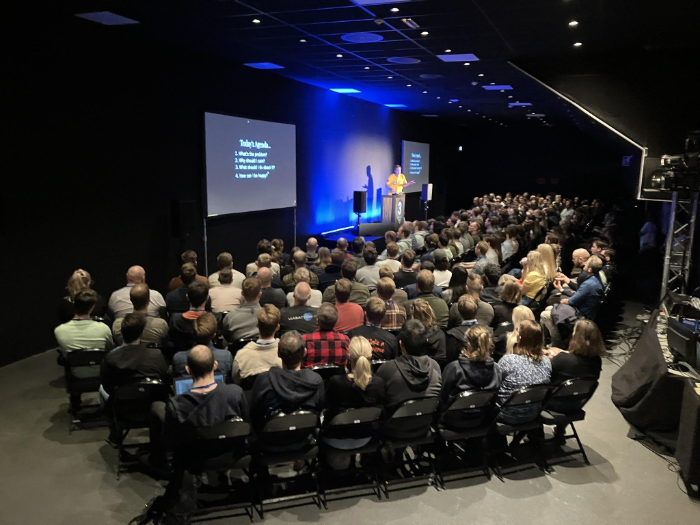
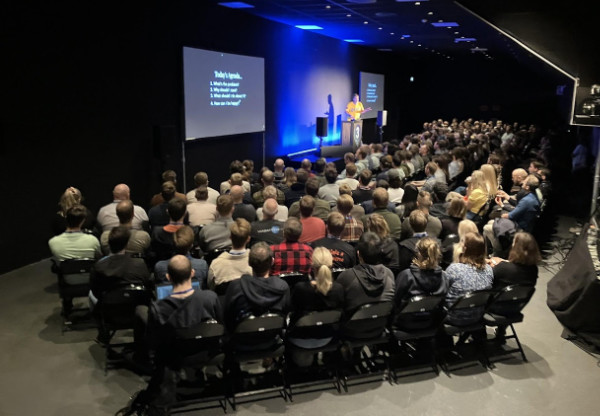
Some image optimization into #25
But more would be necessary.

diff --git a/talks.html b/talks.html
@@ -5,7 +5,7 @@
     <title>Lemon speaks at conferences.</title>
     <meta http-equiv="X-UA-Compatible" content="IE=edge,chrome=1">
     <link href="https://fonts.googleapis.com/css?family=Yrsa:300,400,600" rel="stylesheet" type="text/css">
-    <link rel="stylesheet" href="/css/ahoylemon.css?v=2023-01-12T03:36:27.641Z">
+    <link rel="stylesheet" href="/css/ahoylemon.css?v=2023-01-12T03:56:21.139Z">
     <meta name="viewport" content="width=device-width, initial-scale=1">
     <meta name="description" content="I make a lot of stuff, including this website to show the stuff I make.">
     <!-- RSS Feed-->
@@ -153,11 +153,11 @@
               </ul>
             </div>
           </div>
-          <div class="pics"><a class="close-cardpic"> <span>X</span></a><a class="pic" data-pic="prdc/2022-calgary-whiskeysour.jpg" style="background-image:url(img/talks/prdc/2022-calgary-whiskeysour.jpg)"></a>
-            <meta itemprop="image" content="https://ahoylemon.xyz/img/talks/prdc/2022-calgary-whiskeysour.jpg"><a class="pic" data-pic="prdc/2022-calgary-screen.jpg" style="background-image:url(img/talks/prdc/2022-calgary-screen.jpg)"></a>
-            <meta itemprop="image" content="https://ahoylemon.xyz/img/talks/prdc/2022-calgary-screen.jpg"><a class="pic" data-pic="prdc/2022-calgary-notpoutine.jpg" style="background-image:url(img/talks/prdc/2022-calgary-notpoutine.jpg)"></a>
-            <meta itemprop="image" content="https://ahoylemon.xyz/img/talks/prdc/2022-calgary-notpoutine.jpg"><a class="pic" data-pic="prdc/2022-calgary-group.jpg" style="background-image:url(img/talks/prdc/2022-calgary-group.jpg)"></a>
-            <meta itemprop="image" content="https://ahoylemon.xyz/img/talks/prdc/2022-calgary-group.jpg">
+          <div class="pics"><a class="close-cardpic"> <span>X</span></a><a class="pic" data-pic="prdc/2022-calgary-whiskeysour.webp" style="background-image:url(img/talks/prdc/2022-calgary-whiskeysour.webp)"></a>
+            <meta itemprop="image" content="https://ahoylemon.xyz/img/talks/prdc/2022-calgary-whiskeysour.webp"><a class="pic" data-pic="prdc/2022-calgary-notpoutine.webp" style="background-image:url(img/talks/prdc/2022-calgary-notpoutine.webp)"></a>
+            <meta itemprop="image" content="https://ahoylemon.xyz/img/talks/prdc/2022-calgary-notpoutine.webp"><a class="pic" data-pic="prdc/2022-calgary-group.webp" style="background-image:url(img/talks/prdc/2022-calgary-group.webp)"></a>
+            <meta itemprop="image" content="https://ahoylemon.xyz/img/talks/prdc/2022-calgary-group.webp"><a class="pic" data-pic="prdc/2022-calgary-funzone.webp" style="background-image:url(img/talks/prdc/2022-calgary-funzone.webp)"></a>
+            <meta itemprop="image" content="https://ahoylemon.xyz/img/talks/prdc/2022-calgary-funzone.webp">
           </div>
           <figure class="cardpic"></figure>
         </div>
@@ -184,8 +184,8 @@
               </ul>
             </div>
           </div>
-          <div class="pics"><a class="close-cardpic"> <span>X</span></a><a class="pic" data-pic="pubconf/mn-2022-1.jpg" style="background-image:url(img/talks/pubconf/mn-2022-1.jpg)"></a>
-            <meta itemprop="image" content="https://ahoylemon.xyz/img/talks/pubconf/mn-2022-1.jpg"><a class="pic" data-pic="pubconf/mn-2022-2.jpg" style="background-image:url(img/talks/pubconf/mn-2022-2.jpg)"></a>
+          <div class="pics"><a class="close-cardpic"> <span>X</span></a><a class="pic" data-pic="pubconf/mn-2022-1.webp" style="background-image:url(img/talks/pubconf/mn-2022-1.webp)"></a>
+            <meta itemprop="image" content="https://ahoylemon.xyz/img/talks/pubconf/mn-2022-1.webp"><a class="pic" data-pic="pubconf/mn-2022-2.jpg" style="background-image:url(img/talks/pubconf/mn-2022-2.jpg)"></a>
             <meta itemprop="image" content="https://ahoylemon.xyz/img/talks/pubconf/mn-2022-2.jpg"><a class="pic" data-pic="pubconf/mn-2022-3.jpg" style="background-image:url(img/talks/pubconf/mn-2022-3.jpg)"></a>
             <meta itemprop="image" content="https://ahoylemon.xyz/img/talks/pubconf/mn-2022-3.jpg"><a class="pic" data-pic="pubconf/mn-2022-4.jpg" style="background-image:url(img/talks/pubconf/mn-2022-4.jpg)"></a>
             <meta itemprop="image" content="https://ahoylemon.xyz/img/talks/pubconf/mn-2022-4.jpg">
@@ -215,8 +215,8 @@
               </ul>
             </div>
           </div>
-          <div class="pics"><a class="close-cardpic"> <span>X</span></a><a class="pic" data-pic="ndc/oslo-2022-packedroom.jpg" style="background-image:url(img/talks/ndc/oslo-2022-packedroom.jpg)"></a>
-            <meta itemprop="image" content="https://ahoylemon.xyz/img/talks/ndc/oslo-2022-packedroom.jpg"><a class="pic" data-pic="ndc/oslo-2022-mainroom.jpg" style="background-image:url(img/talks/ndc/oslo-2022-mainroom.jpg)"></a>
+          <div class="pics"><a class="close-cardpic"> <span>X</span></a><a class="pic" data-pic="ndc/oslo-2022-packedroom.webp" style="background-image:url(img/talks/ndc/oslo-2022-packedroom.webp)"></a>
+            <meta itemprop="image" content="https://ahoylemon.xyz/img/talks/ndc/oslo-2022-packedroom.webp"><a class="pic" data-pic="ndc/oslo-2022-mainroom.jpg" style="background-image:url(img/talks/ndc/oslo-2022-mainroom.jpg)"></a>
             <meta itemprop="image" content="https://ahoylemon.xyz/img/talks/ndc/oslo-2022-mainroom.jpg"><a class="pic" data-pic="ndc/oslo-2022-street.jpg" style="background-image:url(img/talks/ndc/oslo-2022-street.jpg)"></a>
             <meta itemprop="image" content="https://ahoylemon.xyz/img/talks/ndc/oslo-2022-street.jpg"><a class="pic" data-pic="ndc/oslo-2022-party.jpg" style="background-image:url(img/talks/ndc/oslo-2022-party.jpg)"></a>
             <meta itemprop="image" content="https://ahoylemon.xyz/img/talks/ndc/oslo-2022-party.jpg">
@@ -246,8 +246,8 @@
               </ul>
             </div>
           </div>
-          <div class="pics"><a class="close-cardpic"> <span>X</span></a><a class="pic" data-pic="pubconf/kc-2022-pointing.jpg" style="background-image:url(img/talks/pubconf/kc-2022-pointing.jpg)"></a>
-            <meta itemprop="image" content="https://ahoylemon.xyz/img/talks/pubconf/kc-2022-pointing.jpg"><a class="pic" data-pic="pubconf/kc-2022-intro.jpg" style="background-image:url(img/talks/pubconf/kc-2022-intro.jpg)"></a>
+          <div class="pics"><a class="close-cardpic"> <span>X</span></a><a class="pic" data-pic="pubconf/kc-2022-pointing.webp" style="background-image:url(img/talks/pubconf/kc-2022-pointing.webp)"></a>
+            <meta itemprop="image" content="https://ahoylemon.xyz/img/talks/pubconf/kc-2022-pointing.webp"><a class="pic" data-pic="pubconf/kc-2022-intro.jpg" style="background-image:url(img/talks/pubconf/kc-2022-intro.jpg)"></a>
             <meta itemprop="image" content="https://ahoylemon.xyz/img/talks/pubconf/kc-2022-intro.jpg"><a class="pic" data-pic="pubconf/kc-2022-figure.jpg" style="background-image:url(img/talks/pubconf/kc-2022-figure.jpg)"></a>
             <meta itemprop="image" content="https://ahoylemon.xyz/img/talks/pubconf/kc-2022-figure.jpg">
           </div>

diff --git a/clients/index.html b/clients/index.html
@@ -1,4 +1,4 @@
-<!doctype html><html lang="en"><head><meta charset="utf-8"><title>Some websites I made for clients</title><meta http-equiv="X-UA-Compatible" content="IE=edge,chrome=1"><link href="https://fonts.googleapis.com/css?family=Yrsa:300,400,600" rel="stylesheet" type="text/css"><link rel="stylesheet" href="/css/ahoylemon.css?v=2023-01-12T03:36:27.217Z"><meta name="viewport" content="width=device-width,initial-scale=1"><meta name="description" content="I make a lot of stuff, including this website to show the stuff I make."><link rel="alternate" type="application/rss+xml" href="https://ahoylemon.xyz/feed.xml" title="Ahoy! Lemon's RSS Feed"><link rel="apple-touch-icon" sizes="57x57" href="/apple-touch-icon-57x57.png"><link rel="apple-touch-icon" sizes="60x60" href="/apple-touch-icon-60x60.png"><link rel="apple-touch-icon" sizes="72x72" href="/apple-touch-icon-72x72.png"><link rel="apple-touch-icon" sizes="76x76" href="/apple-touch-icon-76x76.png"><link rel="apple-touch-icon" sizes="114x114" href="/apple-touch-icon-114x114.png"><link rel="apple-touch-icon" sizes="120x120" href="/apple-touch-icon-120x120.png"><link rel="apple-touch-icon" sizes="144x144" href="/apple-touch-icon-144x144.png"><link rel="apple-touch-icon" sizes="152x152" href="/apple-touch-icon-152x152.png"><link rel="apple-touch-icon" sizes="180x180" href="/apple-touch-icon-180x180.png"><link rel="icon" type="image/png" href="/favicon-32x32.png" sizes="32x32"><link rel="icon" type="image/png" href="/favicon-194x194.png" sizes="194x194"><link rel="icon" type="image/png" href="/favicon-96x96.png" sizes="96x96"><link rel="icon" type="image/png" href="/android-chrome-192x192.png" sizes="192x192"><link rel="icon" type="image/png" href="/favicon-16x16.png" sizes="16x16"><link rel="manifest" href="/manifest.json"><link rel="mask-icon" href="/safari-pinned-tab.svg" color="#5bbad5"><meta name="msapplication-TileColor" content="#e4e72c"><meta name="msapplication-TileImage" content="/mstile-144x144.png"><meta name="theme-color" content="#e4e72c"><meta name="twitter:card" content="summary"><meta name="twitter:site" content="@AhoyLemon"><meta name="twitter:creator" content="@AhoyLemon"><meta name="twitter:title" content="Some websites I made for clients"><meta name="twitter:description" content="I make a lot of stuff, including this website to show the stuff I make."><meta name="twitter:image" content="https://ahoylemon.xyz/og-image.png"><meta name="twitter:url" content="https://ahoylemon.xyz"><meta property="og:title" content="Some websites I made for clients"><meta property="og:type" content="website"><meta property="og:url" content="https://ahoylemon.xyz"><meta property="og:image" content="https://ahoylemon.xyz/og-image.png"><meta property="og:image:width" content="1200"><meta property="og:image:height" content="1200"><meta property="og:description" content="I make a lot of stuff, including this website to show the stuff I make."><meta property="og:email" content="lemon@ahoylemon.xyz"><script src="https://code.jquery.com/jquery-3.5.1.min.js" integrity="sha256-9/aliU8dGd2tb6OSsuzixeV4y/faTqgFtohetphbbj0=" crossorigin="anonymous"></script></head><body><script type="application/ld+json">{
+<!doctype html><html lang="en"><head><meta charset="utf-8"><title>Some websites I made for clients</title><meta http-equiv="X-UA-Compatible" content="IE=edge,chrome=1"><link href="https://fonts.googleapis.com/css?family=Yrsa:300,400,600" rel="stylesheet" type="text/css"><link rel="stylesheet" href="/css/ahoylemon.css?v=2023-01-12T03:56:20.856Z"><meta name="viewport" content="width=device-width,initial-scale=1"><meta name="description" content="I make a lot of stuff, including this website to show the stuff I make."><link rel="alternate" type="application/rss+xml" href="https://ahoylemon.xyz/feed.xml" title="Ahoy! Lemon's RSS Feed"><link rel="apple-touch-icon" sizes="57x57" href="/apple-touch-icon-57x57.png"><link rel="apple-touch-icon" sizes="60x60" href="/apple-touch-icon-60x60.png"><link rel="apple-touch-icon" sizes="72x72" href="/apple-touch-icon-72x72.png"><link rel="apple-touch-icon" sizes="76x76" href="/apple-touch-icon-76x76.png"><link rel="apple-touch-icon" sizes="114x114" href="/apple-touch-icon-114x114.png"><link rel="apple-touch-icon" sizes="120x120" href="/apple-touch-icon-120x120.png"><link rel="apple-touch-icon" sizes="144x144" href="/apple-touch-icon-144x144.png"><link rel="apple-touch-icon" sizes="152x152" href="/apple-touch-icon-152x152.png"><link rel="apple-touch-icon" sizes="180x180" href="/apple-touch-icon-180x180.png"><link rel="icon" type="image/png" href="/favicon-32x32.png" sizes="32x32"><link rel="icon" type="image/png" href="/favicon-194x194.png" sizes="194x194"><link rel="icon" type="image/png" href="/favicon-96x96.png" sizes="96x96"><link rel="icon" type="image/png" href="/android-chrome-192x192.png" sizes="192x192"><link rel="icon" type="image/png" href="/favicon-16x16.png" sizes="16x16"><link rel="manifest" href="/manifest.json"><link rel="mask-icon" href="/safari-pinned-tab.svg" color="#5bbad5"><meta name="msapplication-TileColor" content="#e4e72c"><meta name="msapplication-TileImage" content="/mstile-144x144.png"><meta name="theme-color" content="#e4e72c"><meta name="twitter:card" content="summary"><meta name="twitter:site" content="@AhoyLemon"><meta name="twitter:creator" content="@AhoyLemon"><meta name="twitter:title" content="Some websites I made for clients"><meta name="twitter:description" content="I make a lot of stuff, including this website to show the stuff I make."><meta name="twitter:image" content="https://ahoylemon.xyz/og-image.png"><meta name="twitter:url" content="https://ahoylemon.xyz"><meta property="og:title" content="Some websites I made for clients"><meta property="og:type" content="website"><meta property="og:url" content="https://ahoylemon.xyz"><meta property="og:image" content="https://ahoylemon.xyz/og-image.png"><meta property="og:image:width" content="1200"><meta property="og:image:height" content="1200"><meta property="og:description" content="I make a lot of stuff, including this website to show the stuff I make."><meta property="og:email" content="lemon@ahoylemon.xyz"><script src="https://code.jquery.com/jquery-3.5.1.min.js" integrity="sha256-9/aliU8dGd2tb6OSsuzixeV4y/faTqgFtohetphbbj0=" crossorigin="anonymous"></script></head><body><script type="application/ld+json">{
         "@context": "http://schema.org",
         "@type": "Person",
         "name": "Lemon",

diff --git a/index.html b/index.html
@@ -5,7 +5,7 @@
     <title>Hi, my name is Lemon.</title>
     <meta http-equiv="X-UA-Compatible" content="IE=edge,chrome=1">
     <link href="https://fonts.googleapis.com/css?family=Yrsa:300,400,600" rel="stylesheet" type="text/css">
-    <link rel="stylesheet" href="/css/ahoylemon.css?v=2023-01-12T03:36:27.358Z">
+    <link rel="stylesheet" href="/css/ahoylemon.css?v=2023-01-12T03:56:20.978Z">
     <meta name="viewport" content="width=device-width, initial-scale=1">
     <meta name="description" content="I make a lot of stuff, including this website to show the stuff I make.">
     <!-- RSS Feed-->
@@ -248,7 +248,7 @@
               <div class="more-holder"><a href="talks.html#previous">see all</a></div>
             </div>
             <div class="previous-conference-carousel carousel">
-              <figure class="conference prev" style="background-image:url(img/talks/prdc/2022-calgary-whiskeysour.jpg)">
+              <figure class="conference prev" style="background-image:url(img/talks/prdc/2022-calgary-whiskeysour.webp)">
                 <figcaption>
                   <div class="name"><a href="talks.html#PDCCalgary20221128">PDC Calgary</a></div>
                   <div class="location" style="text-transform:uppercase; font-size:100%; font-weight:bold;"><span>Calgary, Canada</span>
@@ -262,7 +262,7 @@
                   </div>
                 </figcaption>
               </figure>
-              <figure class="conference prev" style="background-image:url(img/talks/pubconf/mn-2022-1.jpg)">
+              <figure class="conference prev" style="background-image:url(img/talks/pubconf/mn-2022-1.webp)">
                 <figcaption>
                   <div class="name"><a href="talks.html#PubConfTechInHell20221117">PubConf: Tech In Hell</a></div>
                   <div class="location" style="text-transform:uppercase; font-size:100%; font-weight:bold;"><span>Minneapolis, MN</span>
@@ -275,7 +275,7 @@
                   </div>
                 </figcaption>
               </figure>
-              <figure class="conference prev" style="background-image:url(img/talks/ndc/oslo-2022-packedroom.jpg)">
+              <figure class="conference prev" style="background-image:url(img/talks/ndc/oslo-2022-packedroom.webp)">
                 <figcaption>
                   <div class="name"><a href="talks.html#NDCOslo20220926">NDC {Oslo}</a></div>
                   <div class="location" style="text-transform:uppercase; font-size:100%; font-weight:bold;"><span>Oslo, Norway</span>
@@ -289,7 +289,7 @@
                   </div>
                 </figcaption>
               </figure>
-              <figure class="conference prev" style="background-image:url(img/talks/pubconf/kc-2022-pointing.jpg)">
+              <figure class="conference prev" style="background-image:url(img/talks/pubconf/kc-2022-pointing.webp)">
                 <figcaption>
                   <div class="name"><a href="talks.html#PubConfArmageddon20220809">PubConf: Armageddon</a></div>
                   <div class="location" style="text-transform:uppercase; font-size:100%; font-weight:bold;"><span>Kansas City, MO</span>

diff --git a/test.html b/test.html
@@ -6,7 +6,7 @@
     <title>ahoylemon 🍋 xyz</title>
     <meta http-equiv="X-UA-Compatible" content="IE=edge,chrome=1">
     <link href="https://fonts.googleapis.com/css?family=Yrsa:300,400,600" rel="stylesheet" type="text/css">
-    <link rel="stylesheet" href="/css/ahoylemon.css?v=2023-01-12T03:36:27.484Z">
+    <link rel="stylesheet" href="/css/ahoylemon.css?v=2023-01-12T03:56:21.279Z">
     <meta name="viewport" content="width=device-width, initial-scale=1">
     <meta name="description" content="I make a lot of stuff, including this website to show the stuff I make.">
     <!-- RSS Feed-->
@@ -214,7 +214,7 @@
               <div class="more-holder"><a href="talks.html#previous">see all</a></div>
             </div>
             <div class="previous-conference-carousel carousel">
-              <figure class="conference prev" style="background-image:url(img/talks/prdc/2022-calgary-whiskeysour.jpg)">
+              <figure class="conference prev" style="background-image:url(img/talks/prdc/2022-calgary-whiskeysour.webp)">
                 <figcaption>
                   <div class="name"><a href="talks.html#PDCCalgary20221128">PDC Calgary</a></div>
                   <div class="location" style="text-transform:uppercase; font-size:100%; font-weight:bold;"><span>Calgary, Canada</span>
@@ -228,7 +228,7 @@
                   </div>
                 </figcaption>
               </figure>
-              <figure class="conference prev" style="background-image:url(img/talks/pubconf/mn-2022-1.jpg)">
+              <figure class="conference prev" style="background-image:url(img/talks/pubconf/mn-2022-1.webp)">
                 <figcaption>
                   <div class="name"><a href="talks.html#PubConfTechInHell20221117">PubConf: Tech In Hell</a></div>
                   <div class="location" style="text-transform:uppercase; font-size:100%; font-weight:bold;"><span>Minneapolis, MN</span>
@@ -241,7 +241,7 @@
                   </div>
                 </figcaption>
               </figure>
-              <figure class="conference prev" style="background-image:url(img/talks/ndc/oslo-2022-packedroom.jpg)">
+              <figure class="conference prev" style="background-image:url(img/talks/ndc/oslo-2022-packedroom.webp)">
                 <figcaption>
                   <div class="name"><a href="talks.html#NDCOslo20220926">NDC {Oslo}</a></div>
                   <div class="location" style="text-transform:uppercase; font-size:100%; font-weight:bold;"><span>Oslo, Norway</span>
@@ -255,7 +255,7 @@
                   </div>
                 </figcaption>
               </figure>
-              <figure class="conference prev" style="background-image:url(img/talks/pubconf/kc-2022-pointing.jpg)">
+              <figure class="conference prev" style="background-image:url(img/talks/pubconf/kc-2022-pointing.webp)">
                 <figcaption>
                   <div class="name"><a href="talks.html#PubConfArmageddon20220809">PubConf: Armageddon</a></div>
                   <div class="location" style="text-transform:uppercase; font-size:100%; font-weight:bold;"><span>Kansas City, MO</span>

diff --git a/blog/apple-names.html b/blog/apple-names.html
@@ -5,7 +5,7 @@
     <title>Actual names of U of M apples | 🍋</title>
     <meta http-equiv="X-UA-Compatible" content="IE=edge,chrome=1">
     <link href="https://fonts.googleapis.com/css?family=Yrsa:300,400,600" rel="stylesheet" type="text/css">
-    <link rel="stylesheet" href="/css/ahoylemon.css?v=2023-01-12T03:36:27.032Z">
+    <link rel="stylesheet" href="/css/ahoylemon.css?v=2023-01-12T03:56:20.731Z">
     <meta name="viewport" content="width=device-width, initial-scale=1">
     <meta name="description" content="Hi, I wanted you personally to see a list of some actual apple names, and some that aren't.">
     <!-- RSS Feed-->

diff --git a/uses/index.html b/uses/index.html
@@ -5,7 +5,7 @@
     <title>Lemon uses technology.</title>
     <meta http-equiv="X-UA-Compatible" content="IE=edge,chrome=1">
     <link href="https://fonts.googleapis.com/css?family=Yrsa:300,400,600" rel="stylesheet" type="text/css">
-    <link rel="stylesheet" href="/css/ahoylemon.css?v=2023-01-12T03:36:27.768Z">
+    <link rel="stylesheet" href="/css/ahoylemon.css?v=2023-01-12T03:56:21.430Z">
     <meta name="viewport" content="width=device-width, initial-scale=1">
     <meta name="description" content="A list of the technology that Lemon uses, in case you give a fuck.">
     <!-- RSS Feed-->
